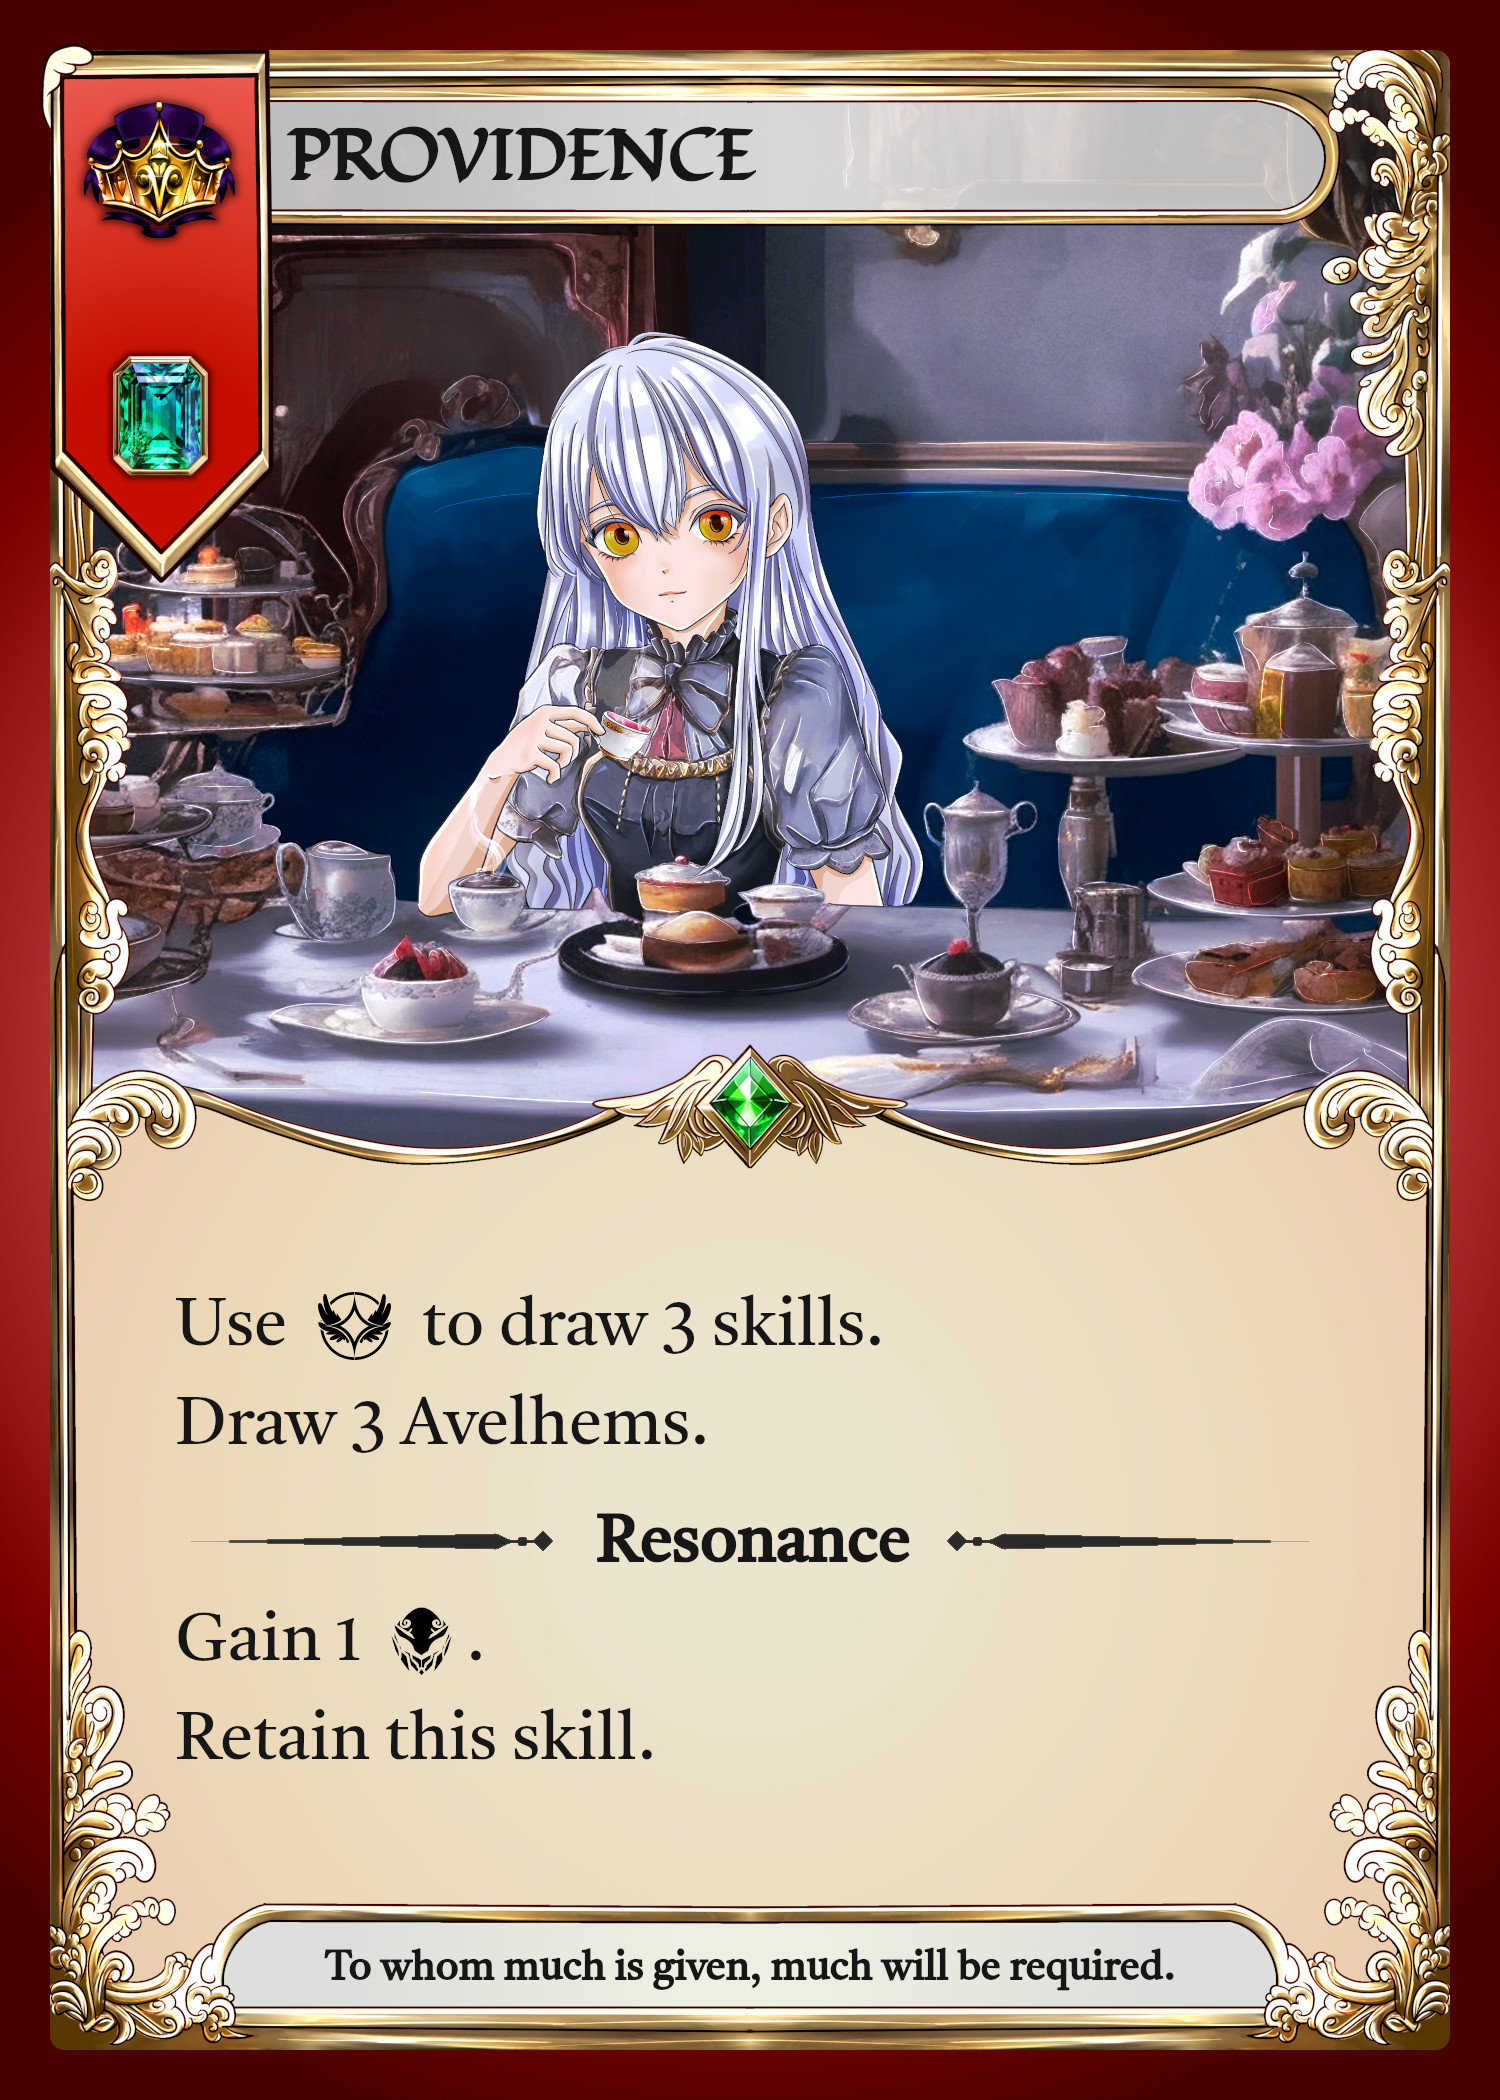
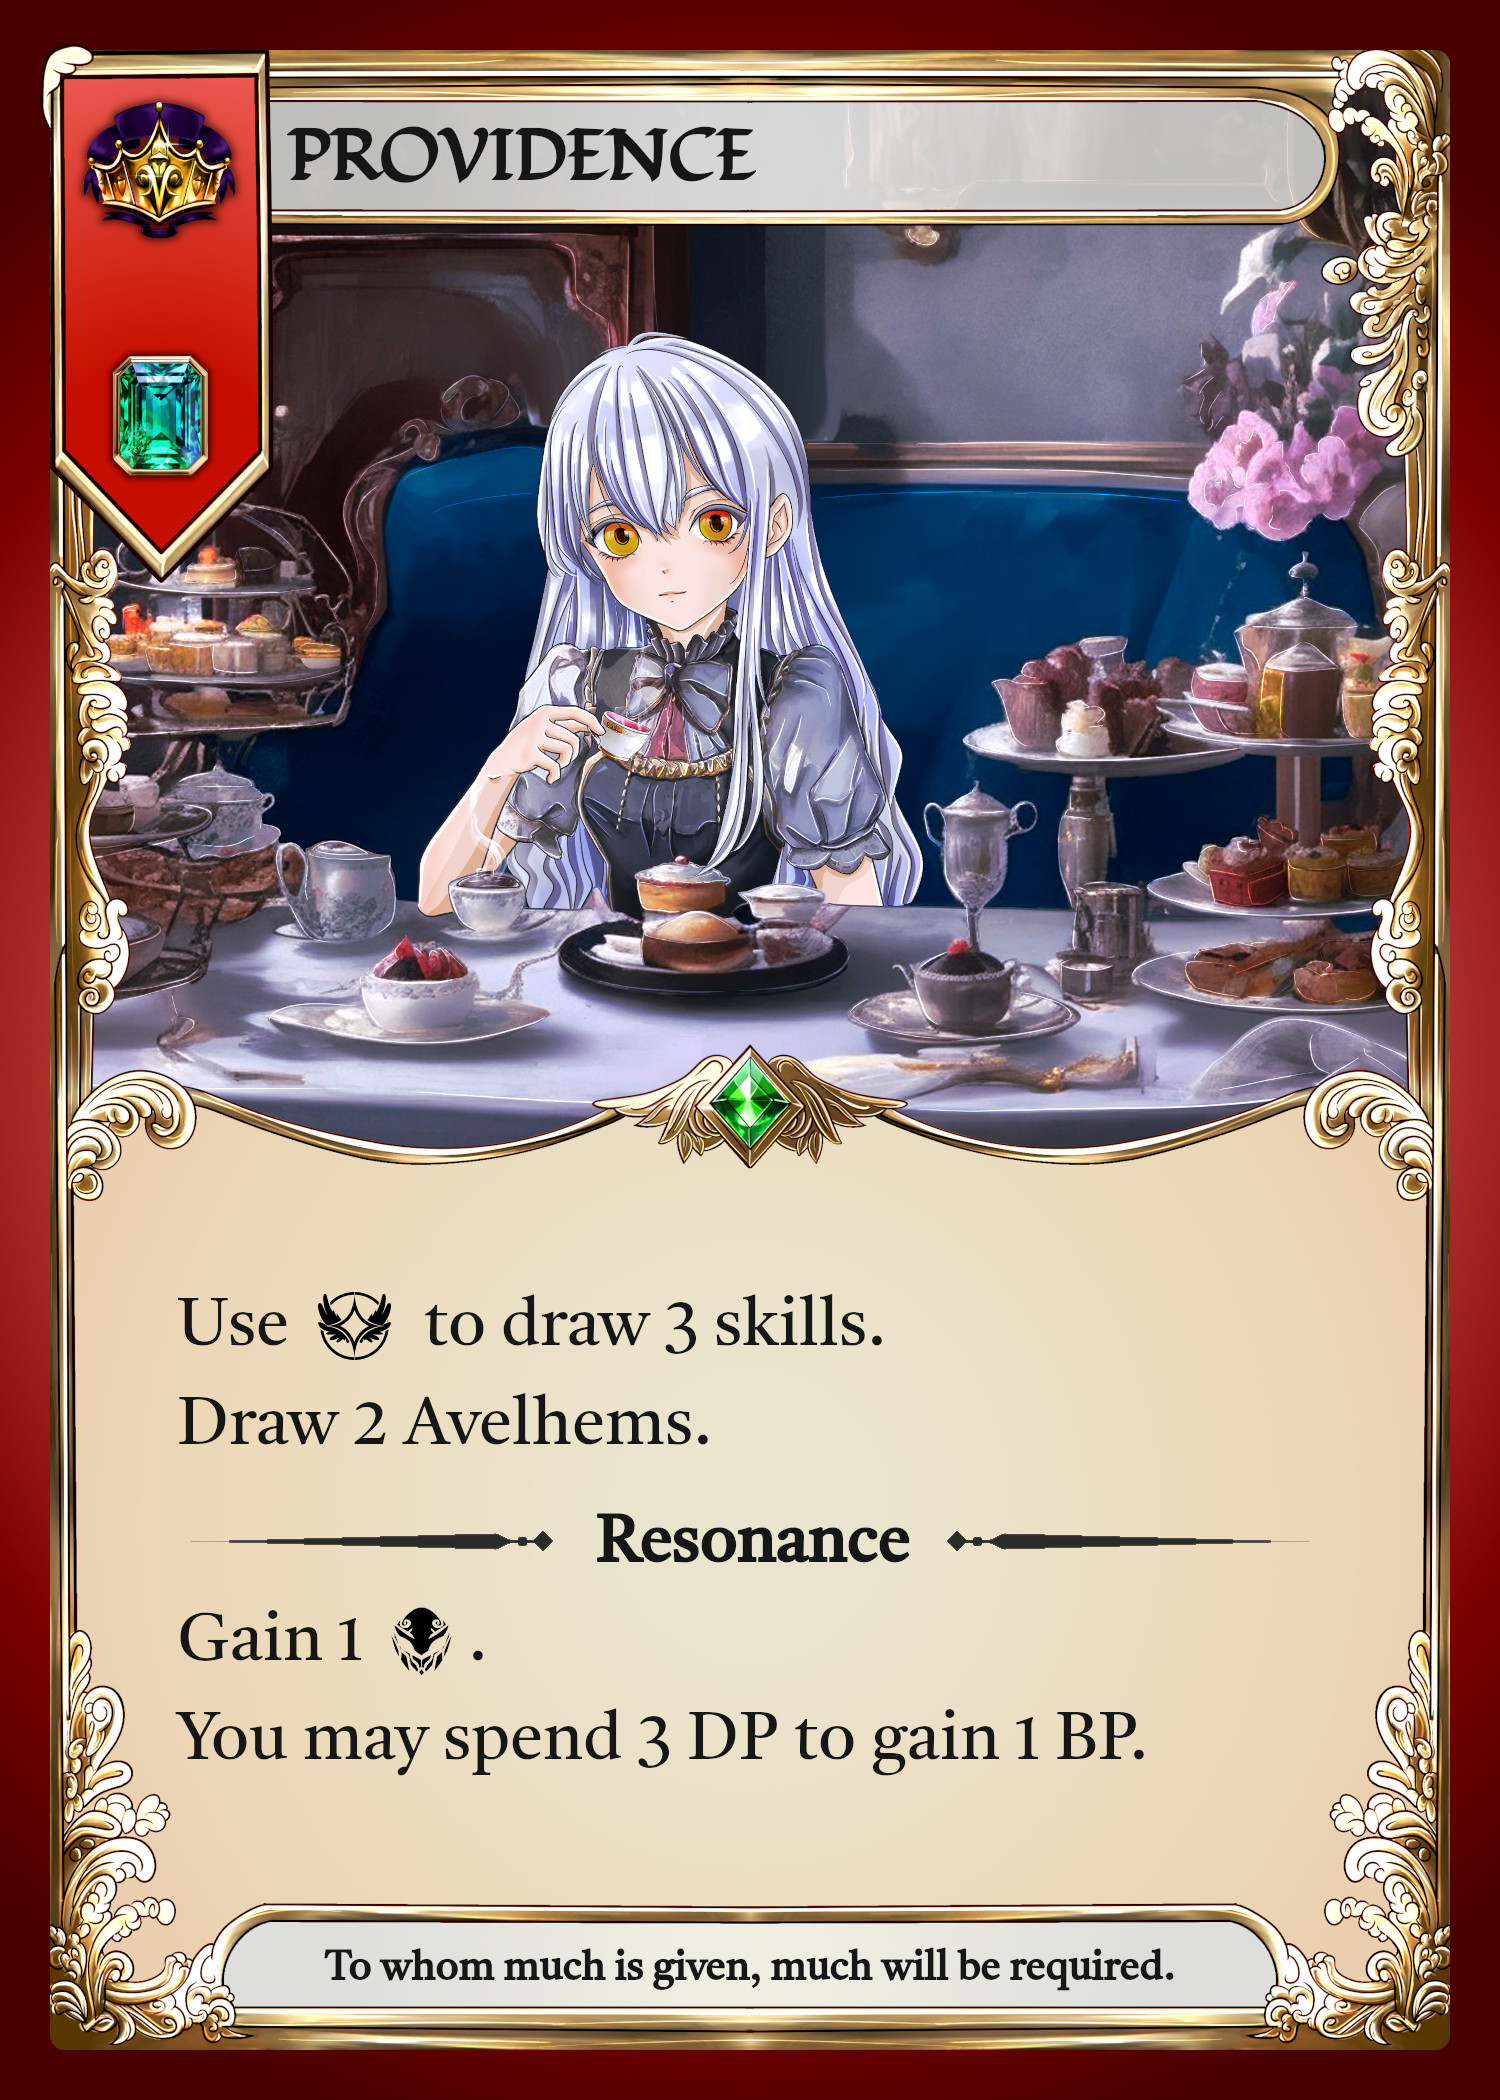
updated sovereign resonant skills.

diff --git a/src/components/skillModals/FerventPrayerResonance.jsx b/src/components/skillModals/FerventPrayerResonance.jsx
@@ -10,7 +10,7 @@ import SkillMultiSelect from "../hand/SkillMultiSelect";
 
 const FerventPrayerResonance = (props) => {
   const { localGameState } = useSelector((state) => state.gameState);
-  const { self, enemy } = useSelector((state) => state.teams);
+  const { self } = useSelector((state) => state.teams);
   const dispatch = useDispatch();
 
   const {} = useRecurringEffects();
@@ -18,7 +18,7 @@ const FerventPrayerResonance = (props) => {
   //selectedAvelhems refers to their index in the hand
   const [selectedAvelhems, setSelectedAvelhems] = useState([]);
 
-  const [selectedAvelhemIds, setSelectedAvelhemIds] = useState([]);
+  // const [selectedAvelhemIds, setSelectedAvelhemIds] = useState([]);
 
   const avelhemVestige = localGameState[self].avelhemVestige;
   const selectLimit = 3;
@@ -26,14 +26,14 @@ const FerventPrayerResonance = (props) => {
   let skipMessage = "Skip";
   let selectMessage = "Recover";
 
-  useEffect(() => {
-    const selectedIds = [];
-    for (let i of selectedAvelhems) {
-      selectedIds.push(avelhemVestige[i]);
-    }
+  // useEffect(() => {
+  //   const selectedIds = [];
+  //   for (let i of selectedAvelhems) {
+  //     selectedIds.push(avelhemVestige[i]);
+  //   }
 
-    setSelectedAvelhemIds(selectedIds);
-  }, [selectedAvelhems.length]);
+  //   setSelectedAvelhemIds(selectedIds);
+  // }, [selectedAvelhems.length]);
 
   const handleSelect = () => {
     let newGameState = JSON.parse(JSON.stringify(localGameState));
@@ -66,21 +66,15 @@ const FerventPrayerResonance = (props) => {
 
     newGameState[self].avelhemFloat += avelhemsToFloat.length;
 
-    // console.log("newGameState[self].avelhemRepertoire");
-    // console.log(newGameState[self].avelhemRepertoire);
-    // console.log("newGameState[self].avelhemVestige");
-    // console.log(newGameState[self].avelhemVestige);
-    // console.log("newGameState[self].avelhemFloat");
-    // console.log(newGameState[self].avelhemFloat);
-
-    newGameState.currentResolution.push({
-      resolution: "Sovereign Resonant Skill",
-      resolution2: "Fervent Prayer Reveal",
-      player: enemy,
-      avelhems: [...avelhemsToFloat].reverse(),
-      title: "Fervent Prayer",
-      message: "Your opponent has recovered and floated the following:",
-    });
+    //Buff: Cards dont need to be unique, so no need to reveal
+    // newGameState.currentResolution.push({
+    //   resolution: "Sovereign Resonant Skill",
+    //   resolution2: "Fervent Prayer Reveal",
+    //   player: enemy,
+    //   avelhems: [...avelhemsToFloat].reverse(),
+    //   title: "Fervent Prayer",
+    //   message: "Your opponent has recovered and floated the following:",
+    // });
 
     dispatch(updateState(newGameState));
     props.updateFirebase(newGameState);
@@ -126,8 +120,8 @@ const FerventPrayerResonance = (props) => {
         </div>
         <div className="modalContent2">
           <div className="modalContentText" style={{ fontSize: 20 }}>
-            Recover up to 3 different Avelhems, then reveal and float them.
-            Cards selected earlier will float above subsequent ones.
+            Recover then float up to 3 Avelhems. Cards selected earlier will
+            float above subsequent ones.
           </div>
           <div className="modalContent4Column modalScrollableY">
             {avelhemVestige.map((usableSkill, i) => (
@@ -140,8 +134,8 @@ const FerventPrayerResonance = (props) => {
                 }`}
                 onClick={() => {
                   handleClick(
-                    selectedAvelhems.includes(i) ||
-                      !selectedAvelhemIds.includes(avelhemVestige[i]),
+                    // selectedAvelhems.includes(i) || !selectedAvelhemIds.includes(avelhemVestige[i])
+                    true,
                     i
                   );
                   // handleUpdateDemoGuide();
@@ -159,8 +153,9 @@ const FerventPrayerResonance = (props) => {
                     i={i}
                     usableSkill={usableSkill}
                     canAdd={
-                      selectedAvelhems.includes(i) ||
-                      !selectedAvelhemIds.includes(avelhemVestige[i])
+                      true
+                      // selectedAvelhems.includes(i) ||
+                      // !selectedAvelhemIds.includes(avelhemVestige[i])
                     }
                     selectedSkills={selectedAvelhems}
                     addLimit={selectLimit}

diff --git a/src/components/modals/SelectTacticViaEffect.jsx b/src/components/modals/SelectTacticViaEffect.jsx
@@ -299,13 +299,28 @@ const SelectTacticViaEffect = (props) => {
         newGameState = drawSkill(newGameState);
         newGameState = drawSkill(newGameState);
         newGameState = drawSkill(newGameState);
-        newGameState = drawAvelhem(newGameState);
+
         newGameState = drawAvelhem(newGameState);
         newGameState = drawAvelhem(newGameState);
 
         if (props.details.resonated === "resonated") {
           newGameState.tactics[i].stock += 1;
           newGameState.tactics[i].face = "Advance";
+
+          if (newGameState[self].defiancePoints >= 3) {
+            newGameState.currentResolution.push({
+              resolution: "Sovereign Resonant Skill",
+              resolution2: "ProvidenceR1",
+              player: self,
+              details: {
+                reason: "Providence",
+                title: "Providence",
+                message: "You may spend 3 DP to gain 1 BP.",
+                no: "Skip",
+                yes: "Spend DP",
+              },
+            });
+          }
         }
 
         break;

diff --git a/src/hooks/UseCurrentResolution.jsx b/src/hooks/UseCurrentResolution.jsx
@@ -2955,6 +2955,19 @@ const UseCurrentResolution = (props) => {
             </>
           );
 
+        case "ProvidenceR1":
+          return (
+            <>
+              {self === lastRes.player && !props.hideModal && (
+                <YouMayNoYes
+                  details={lastRes.details}
+                  updateFirebase={props.updateFirebase}
+                  hideOrRevealModale={props.hideOrRevealModale}
+                />
+              )}
+            </>
+          );
+
         case "Activating Fervent Prayer":
           if (self === lastRes.player) {
             props.updateLocalState(ferventPrayer1(lastRes.resonator));

diff --git a/src/components/hand/SkillMultiSelect.jsx b/src/components/hand/SkillMultiSelect.jsx
@@ -17,17 +17,6 @@ const SkillMultiSelect = (props) => {
 
   const image = getCardImage(props.usableSkill);
 
-  // const handleClick = () => {
-  //   if (props.canAdd) {
-  //     if (props.selectedSkills.includes(props.i)) {
-  //       props.selectedSkills.splice(props.selectedSkills.indexOf(props.i), 1);
-  //       props.setSelectedSkills([...props.selectedSkills]);
-  //     } else if (props.selectedSkills.length < props.addLimit) {
-  //       props.setSelectedSkills([...props.selectedSkills, props.i]);
-  //     }
-  //   }
-  // };
-
   return (
     <>
       <div

diff --git a/src/components/modals/YouMayNoYes.jsx b/src/components/modals/YouMayNoYes.jsx
@@ -413,6 +413,16 @@ const YouMayNoYes = (props) => {
         newGameState = drawSkill(newGameState);
         break;
 
+      case "Providence":
+        newGameState[self].defiancePoints -= 3;
+
+        newGameState[self].bountyPoints = Math.min(
+          10,
+          newGameState[self].bountyPoints + 1
+        );
+
+        break;
+
       case "Press the Attack Avelhem":
         newGameState = drawAvelhem(newGameState);
         break;
